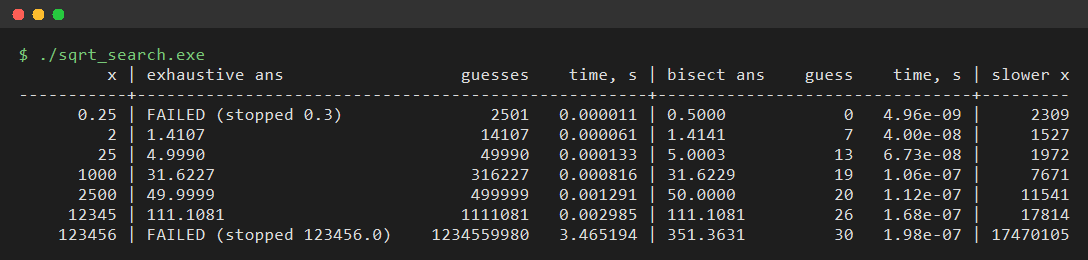
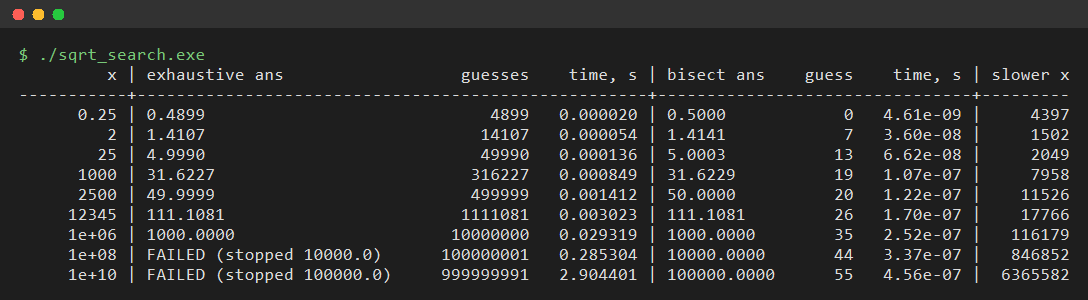
Match exhaustive search condition to Lecture 4 slide 8

diff --git a/practical4/sqrt_search.c b/practical4/sqrt_search.c
@@ -10,14 +10,14 @@ typedef struct {
     int found;
 } Result;
 
-/* Exhaustive enumeration (Lecture 4, slide 8):
-   step through 0, step, 2*step, ... until ans^2 is close to x or ans > x. */
+/* Exhaustive enumeration (Lecture 4, slide 8).
+   Instead of exit(1) on failure it returns found = 0, so all inputs can be compared. */
 Result sqrt_exhaustive(double x)
 {
     double step = EPSILON * EPSILON;
     Result r = {0.0, 0, 0};
 
-    while (fabs(r.ans * r.ans - x) >= EPSILON && r.ans <= x) {
+    while (fabs(r.ans * r.ans - x) >= EPSILON && r.ans * r.ans <= x) {
         r.ans += step;
         r.guesses++;
     }
@@ -54,7 +54,7 @@ static double now_sec(void)
 
 int main(void)
 {
-    double inputs[] = {0.25, 2, 25, 1000, 2500, 12345, 123456};
+    double inputs[] = {0.25, 2, 25, 1000, 2500, 12345, 1e6, 1e8, 1e10};
     int n = sizeof(inputs) / sizeof(inputs[0]);
     const int BISECT_REPEATS = 100000;   /* bisection is too fast to time once */
 

diff --git a/practical4/README.md b/practical4/README.md
@@ -23,7 +23,8 @@ gcc -std=c11 -Wall -Wextra -o sqrt_search sqrt_search.c -lm
 
 Conclusions:
 
-* Exhaustive search makes ~sqrt(x) / 0.0001 guesses (linear in sqrt(x)); bisection makes ~log2(x / epsilon) guesses (≤ 30 here).
-* Bisection is ~10³–10⁴ times faster already for small x, and the gap grows with x.
-* **Worst inputs for exhaustive search are large x where it fails**: near sqrt(x) one step changes ans² by 2·ans·0.0001, which exceeds epsilon once ans > 50 (x > 2500). Then it can jump over the answer and keeps going until ans > x — x / 0.0001 guesses. For x = 123456: 1.2·10⁹ guesses, ~3.5 s and still no answer, while bisection gives 351.3631 in 30 guesses (~0.2 µs) — ~10⁷ times faster.
-* Exhaustive search also fails for 0 < x < 1 (e.g. 0.25): it stops at ans > x, but sqrt(x) > x there. Bisection handles it with `high = max(1, x)`.
+* Exhaustive search makes ~sqrt(x) / epsilon² guesses — O(sqrt(x)); bisection makes ~log2(x / epsilon) guesses — O(log x), at most 55 here.
+* For x = 1000 both give the answer from the lecture (31.6227), but exhaustive needs 316 227 guesses vs 19.
+* The gap grows with x: ~10⁴ times at x = 1000, ~10⁵ at x = 10⁶, ~10⁶–10⁷ at x = 10⁸…10¹⁰.
+* **Inputs where exhaustive search is much slower: large x (10⁶ and more).** For x = 10¹⁰ it runs 10⁹ iterations (~3 s) and still fails, bisection needs 55 iterations (~0.5 µs).
+* Why exhaustive fails for large x: near sqrt(x) one step changes ans² by 2·ans·epsilon² > epsilon once ans > 50, so it can jump over the answer. The lecture code then calls exit(1); here the function returns found = 0 instead, so every input can be timed.
